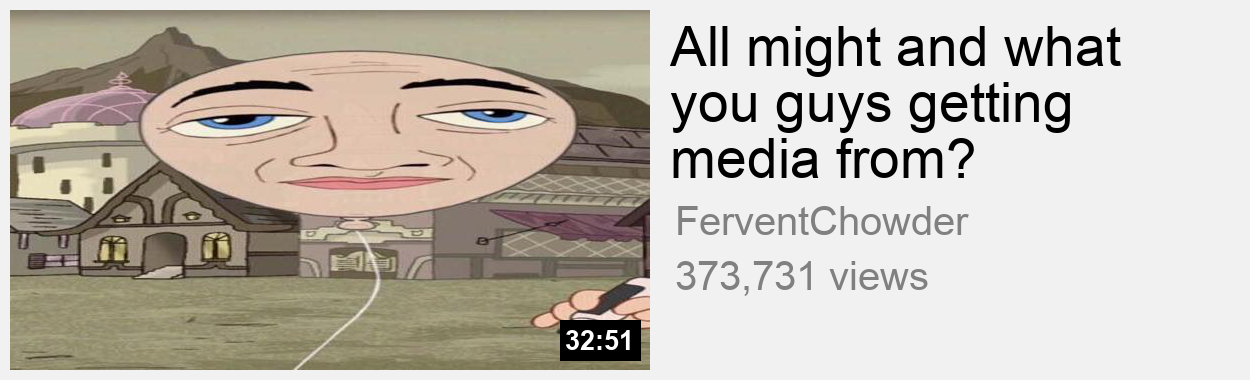
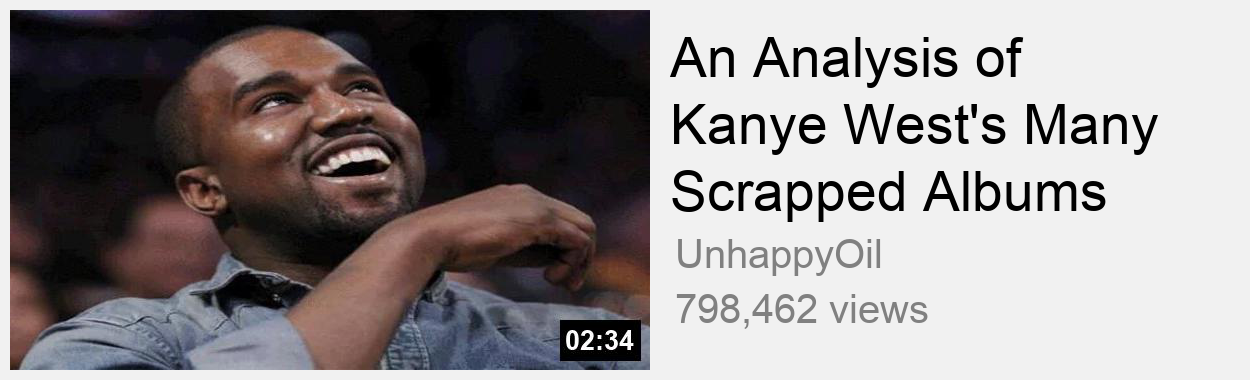
twitter

diff --git a/bot.py b/bot.py
@@ -1,14 +1,20 @@
 from gen import model, gen_channel, gen_img, gen_time, gen_views
 import facebook
 from datetime import datetime, date
-from config import access_token
+from config import fb_access_token, consumer_key, consumer_secret, access_key, access_secret
 import schedule
 import time
 import sys
 import functools
+import tweepy
 
 m = model()
-graph = facebook.GraphAPI(access_token)
+
+graph = facebook.GraphAPI(fb_access_token)
+
+auth = tweepy.OAuthHandler(consumer_key, consumer_secret)
+auth.set_access_token(access_key, access_secret)
+api = tweepy.API(auth)
 
 def catch_exceptions(cancel_on_failure=False):
     def catch_exceptions_decorator(job_func):
@@ -31,22 +37,24 @@ def job(post):
     views = gen_views()
     time = gen_time()
 
-    caption = title + ' [' + time + '] by ' + channel + ' (' + views + ')'
-    print(caption)
+    print(title + ' [' + time + '] by ' + channel + ' (' + views + ')')
+    caption = title + ' | ' + channel + '\n' + views
 
     gen_img(title, channel, views, time)
     
     if (not post):
         return
 
-    post_id = graph.put_photo(image = open('out.png', 'rb'), message='Up next:')['post_id']
+    fb_post_id = graph.put_photo(image = open('out.png', 'rb'), message='Up next:')['post_id']
+    current_time = datetime.now().strftime('%H:%M:%S')
+    current_date = datetime.today().strftime('%d/%m/%Y')
+    print('Posted to Facebook: ' + fb_post_id + ' at ' + current_time + ' ' + current_date)
 
-    now = datetime.now()
-    today = datetime.today()
-    current_time = now.strftime('%H:%M:%S')
-    current_date = today.strftime('%d/%m/%Y')
-
-    print('Posted to Facebook: ' + post_id + ' at ' + current_time + ' ' + current_date)
+    tw_post_id = str(api.update_with_media('thumb.jpg', status=caption).id)
+    current_time = datetime.now().strftime('%H:%M:%S')
+    current_date = datetime.today().strftime('%d/%m/%Y')
+    print('Posted to Twitter: ' + tw_post_id + ' at ' + current_time + ' ' + current_date)
+    
     print()
 
 if __name__ == '__main__':
@@ -67,4 +75,4 @@ if __name__ == '__main__':
         job(False)
     else:
         print('Usage: python bot.py [-m|-t]')
-        sys.exit (1)
+        sys.exit(1)

diff --git a/gen.py b/gen.py
@@ -49,8 +49,15 @@ def gen_img(title, channel, views, time):
     fetch(args)
 
     im = Image.open('thumb.jpg')
+    draw = ImageDraw.Draw(im)
+
     im = im.convert('RGB')
     im = im.resize((640, 360))
+    draw = ImageDraw.Draw(im)
+    draw.rectangle([550, 310, 630, 350], fill='black')
+    fnt = ImageFont.truetype('Arial Bold', 27)
+    draw.text((555, 315), time, font=fnt, fill='white')
+
     im.save('thumb.jpg')
 
     im = Image.open('out.png')
@@ -73,10 +80,6 @@ def gen_img(title, channel, views, time):
     draw = ImageDraw.Draw(im)
     draw.text((675,y + 30), channel, font=fnt, fill='grey')
     draw.text((675,y + 85), views, font=fnt, fill='grey')
-
-    draw.rectangle([560, 320, 640, 360], fill='black')
-    fnt = ImageFont.truetype('Arial Bold', 27)
-    draw.text((565, 325), time, font=fnt, fill='white')
 
     im.save('out.png')
     print('Image generated!')
